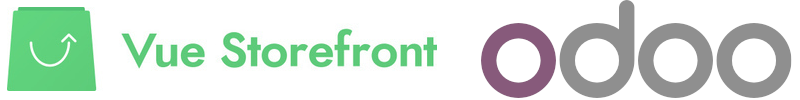
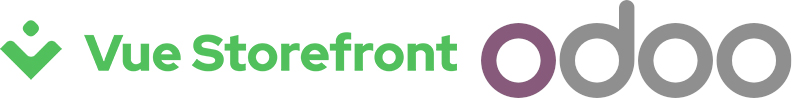
chore: updated VSF new brand

Changed region(s): [[0.0, 0.06, 0.5938, 0.93]]

diff --git a/README.md b/README.md
@@ -1,4 +1,6 @@
-![Vue Storefront](docs/odoo_readme.png)
+<div align="center">
+  <img src="https://user-images.githubusercontent.com/1626923/137323036-91d4262b-74dd-40c3-83da-a405a75de5c8.jpg" alt="Vue Storefront" />
+</div>
 
 ## Vue Storefront 2 integration with Odoo (beta)
 

diff --git a/packages/api-client/README.md b/packages/api-client/README.md
@@ -1,4 +1,6 @@
-![Vue Storefront](docs/odoo_readme.png)
+<div align="center">
+  <img src="https://user-images.githubusercontent.com/1626923/137323036-91d4262b-74dd-40c3-83da-a405a75de5c8.jpg" alt="Vue Storefront" />
+</div>
 
 ## Vue Storefront 2 integration with Odoo (beta)
 

diff --git a/packages/composables/README.md b/packages/composables/README.md
@@ -1,4 +1,6 @@
-![Vue Storefront](docs/odoo_readme.png)
+<div align="center">
+  <img src="https://user-images.githubusercontent.com/1626923/137323036-91d4262b-74dd-40c3-83da-a405a75de5c8.jpg" alt="Vue Storefront" />
+</div>
 
 ## Vue Storefront 2 integration with Odoo (beta)
 
